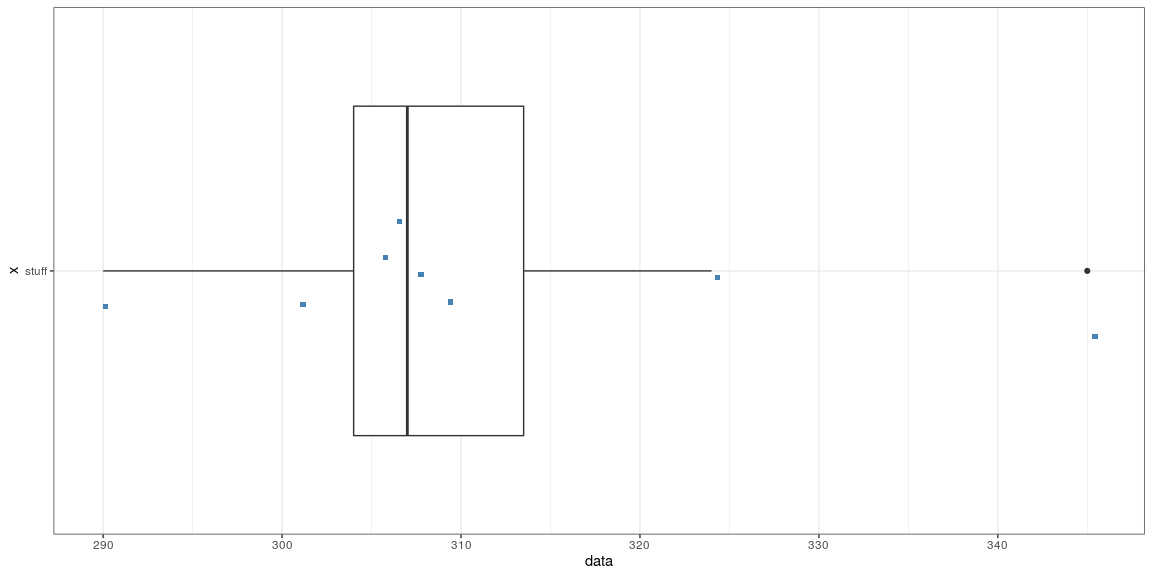
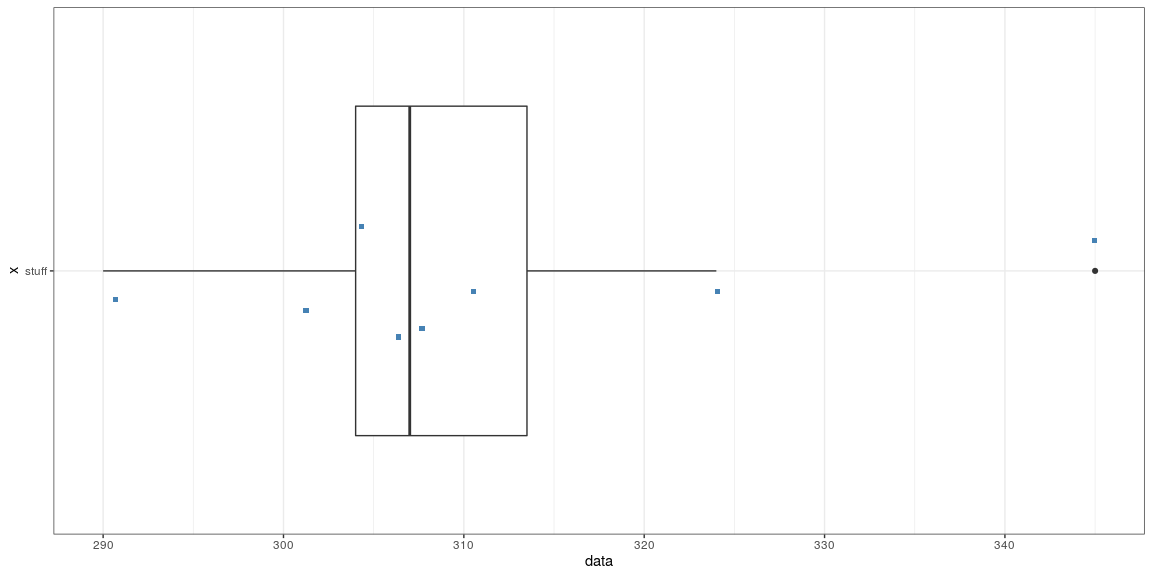
Pull to Glenwood

diff --git a/Graphics.html b/Graphics.html
@@ -435,7 +435,7 @@ summary {
 
 <h1 class="title toc-ignore">Graphics R-Markdown</h1>
 <h4 class="author">Ken Harmon</h4>
-<h4 class="date">2020 September 23</h4>
+<h4 class="date">2020 September 25</h4>
 
 </div>
 
@@ -571,7 +571,7 @@ stem(data)</code></pre>
 <pre class="r"><code>df.stuff &lt;- data.frame(data)
 ggplot(df.stuff,aes(&quot;stuff&quot;,data)) + geom_boxplot() +
     geom_jitter(shape = 15, color = &quot;steelblue&quot;, position = position_jitter(width = 0.21)) + coord_flip()</code></pre>
[2 lines of base64/hex data omitted]
 </div>
 </div>
 <div id="numerical" class="section level2">

diff --git a/Graphics.md b/Graphics.md
@@ -1,7 +1,7 @@
 ---
 title: "Graphics R-Markdown"
 author: "Ken Harmon"
-date: "2020 September 23"
+date: "2020 September 25"
 output:
   html_document:
     keep_md: yes
